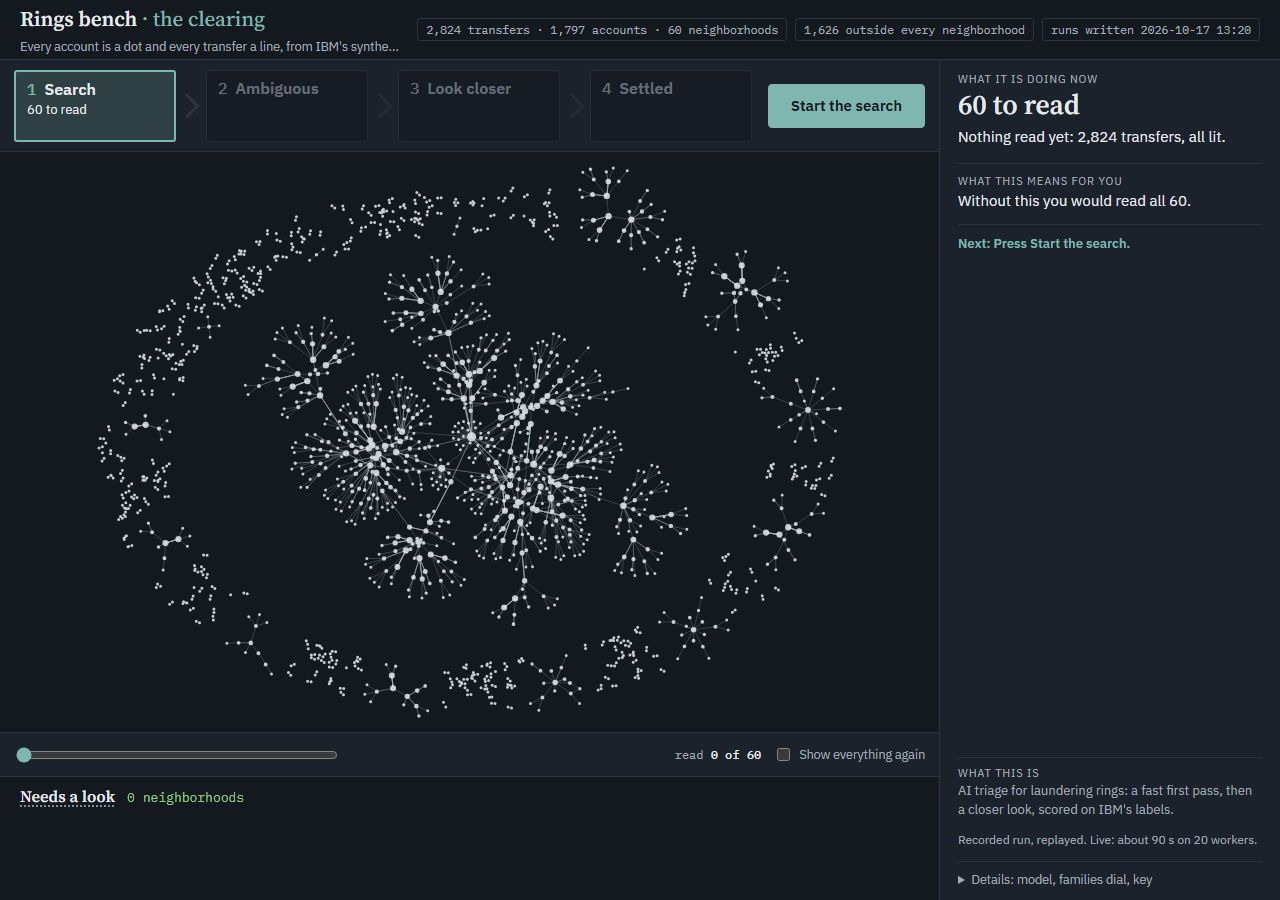
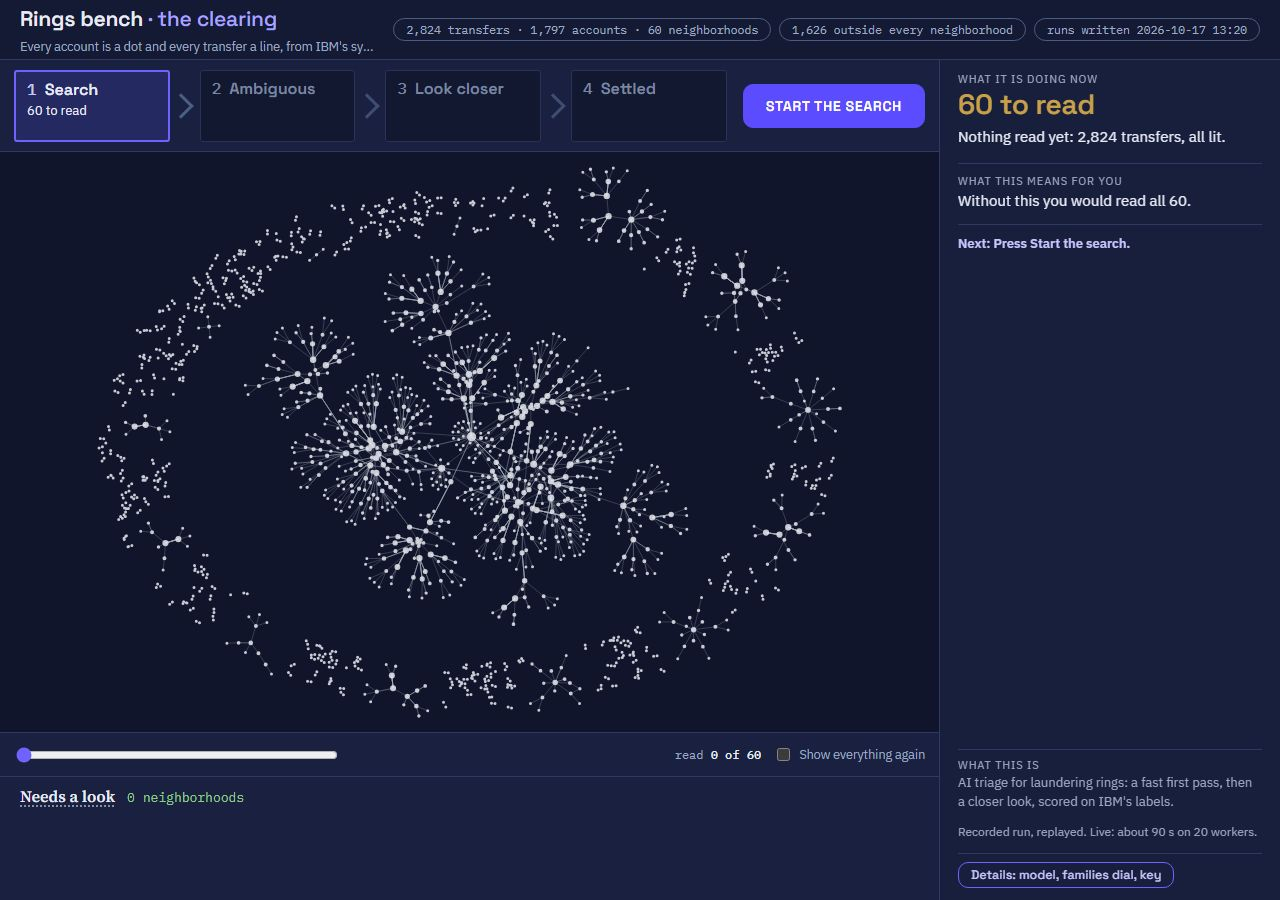
Theme: the landing page's palette (navy, blue-violet, glass, gold thread), Space Grotesk headings, entry fade

Changed region(s): [[0.0, 0.8089, 1.0, 1.0], [0.0, 0.0, 1.0, 0.1867], [0.75, 0.1867, 0.9375, 0.28]]

diff --git a/rings_bench/ui/variants/clearing2d/clearing.css b/rings_bench/ui/variants/clearing2d/clearing.css
@@ -1,6 +1,12 @@
 :root {
-  --ground: #14181F; --surface: #1C222B; --ink: #E6E9EE; --muted: #A3ABB8; --accent: #7FB7B0; --rule: #2C3440; --warn: #E0A458;
-  --ok: #8FCB8A; --bad: #E5736A;
+  /* chrome, sampled from the team landing page; semantic colors below them do not move */
+  --ground: #141a33; --stage: #10152b; --surface: #1a2140; --card: #1f2749; --rule: #2f3a63; --rule-hover: #4b5e83;
+  --ink: #e8ebf5; --muted: #9ea8c0; --faint: #6b7595;
+  --primary: #5b4dff; --primary-hover: #6558f5; --primary-ink: #c9c6ff; --accent: #a9a3ff;
+  --glass: rgba(26, 33, 64, 0.72); --gold: #c9a04a; --done: #7fd7a3; --landing: #1b2a55;
+  --display: "Space Grotesk", "Segoe UI", system-ui, -apple-system, Arial, sans-serif;
+  /* semantic: caught green, false-alarm red, missed amber */
+  --warn: #E0A458; --ok: #8FCB8A; --bad: #E5736A;
   --serif: "Source Serif 4", Georgia, "Times New Roman", serif;
   --sans: "IBM Plex Sans", "Segoe UI", system-ui, -apple-system, Arial, sans-serif;
   --mono: "IBM Plex Mono", Consolas, "Cascadia Mono", "Courier New", monospace;
@@ -207,3 +213,65 @@ select { width: 100%; font: 13px var(--sans); color: var(--ink); background: var
 .r-what p:last-child { font-size: 13px; color: var(--muted); }
 .r-honest { margin: 0; font-size: 12px; color: var(--muted); white-space: nowrap; overflow: hidden; text-overflow: ellipsis; cursor: help; }
 .credit { margin: 0 0 8px; }
+
+/* 15:10 palette pass: chrome follows the landing page; semantic colors (caught, alarm, missed, investigator, unsettled) are unchanged */
+html, body { background: var(--ground); }
+body { animation: from-landing 500ms ease-out both; }
+.top, .rail { animation: fade-in 500ms ease-out both; }
+@keyframes from-landing { from { background-color: var(--landing); } to { background-color: var(--ground); } }
+@keyframes fade-in { from { opacity: 0; } to { opacity: 1; } }
+html.motion-reduced body, html.motion-reduced .top, html.motion-reduced .rail { animation: none; }
+.stage, #cv { background: var(--stage); }
+.top { background: var(--ground); }
+.top h1 { font-family: var(--display); font-weight: 600; letter-spacing: -.01em; }
+.top h1 .thin { color: var(--accent); font-weight: 500; }
+.badge { border: 1px solid var(--rule-hover); color: var(--muted); border-radius: 999px; padding: 3px 12px; }
+.flow, .scrub, .roster { background: var(--surface); }
+.rail { background: var(--surface); }
+@supports ((backdrop-filter: blur(14px)) or (-webkit-backdrop-filter: blur(14px))) {
+  .rail { background: var(--glass); -webkit-backdrop-filter: blur(14px); backdrop-filter: blur(14px); }
+  html body .zm-root { background: var(--glass); -webkit-backdrop-filter: blur(14px); backdrop-filter: blur(14px); }
+}
+/* buttons: one primary (the landing's OPEN THE BENCH look), the rest secondary */
+.btn { background: transparent; border: 1px solid var(--primary-hover); color: var(--primary-ink); border-radius: 10px; font-family: var(--display); }
+.btn:hover { border-color: var(--primary-hover); background: rgba(111, 99, 255, .12); }
+.btn.cta { background: var(--primary); border-color: var(--primary); color: #fff; border-radius: 10px; font: 600 14px var(--display); text-transform: uppercase; letter-spacing: .05em; }
+.btn.cta:hover { background: var(--primary-hover); border-color: var(--primary-hover); filter: none; }
+.btn:focus-visible, select:focus-visible, input:focus-visible, .fbox:focus-visible, summary:focus-visible { outline: 2px solid var(--primary-hover); outline-offset: 2px; }
+.ba .seg { border: 1px solid var(--primary-hover); border-radius: 10px; }
+.ba .seg button { color: var(--primary-ink); font-family: var(--display); }
+.ba .seg button + button { border-left: 1px solid var(--primary-hover); }
+.ba .seg button.on { background: rgba(111, 99, 255, .22); color: #fff; box-shadow: none; }
+.r-details summary { display: inline-block; color: var(--primary-ink); border: 1px solid var(--primary-hover); border-radius: 10px; padding: 3px 12px; font-family: var(--display); }
+input[type=range], input[type=checkbox] { accent-color: var(--primary-hover); }
+select { background: var(--card); border-color: var(--rule); color: var(--ink); }
+/* funnel */
+.fbox { background: var(--stage); border: 1px solid var(--rule); color: var(--muted); opacity: .75; }
+.fbox:not(:last-child)::after { border-color: var(--rule-hover); }
+.fbox .ft { font-family: var(--display); }
+.fbox.on { background: rgba(91, 77, 255, .18); border: 2px solid var(--primary-hover); color: var(--ink); opacity: 1; }
+.fbox.on .ft b { color: var(--primary-ink); }
+.fbox.done { background: rgba(127, 215, 163, .12); border-color: rgba(127, 215, 163, .45); color: var(--ink); opacity: 1; }
+.fbox.done .ft::after { color: var(--done); }
+.fbox.done:not(:last-child)::after { border-color: rgba(127, 215, 163, .6); }
+/* rail */
+.r-now .big { font-family: var(--display); color: var(--gold); letter-spacing: -.01em; }
+.r-next { color: var(--primary-ink); }
+.r-now .speed { color: var(--accent); }
+.r-now, .r-you, .r-what, .r-next, .r-details { border-color: var(--rule); }
+/* tray and cards */
+.card { background: var(--card); border-color: var(--rule); }
+.card:hover, .card:focus-visible { border-color: var(--rule-hover); }
+.card .thumb, .card canvas { background: var(--stage); }
+.hovercard { background: rgba(31, 39, 73, .97); border-color: var(--rule); border-left-color: var(--accent); }
+/* the zoom overlay: chrome follows; the IBM laundering stroke takes the landing's gold thread */
+body .zm-root { background: rgba(16, 21, 43, .9); }
+body .zm-panel { background: var(--stage) !important; border-color: var(--rule) !important; }
+body .zm-head, body .zm-scrub { background: var(--surface) !important; }
+body .zm-card { background: rgba(31, 39, 73, .97) !important; }
+body .zm-tag.ibm { color: var(--gold); border-color: rgba(201, 160, 74, .55); }
+body .zm-ibm { color: var(--gold); }
+body .zm-card.ibm { border-left-color: var(--gold); }
+.zm-root [stroke="#D2C46A"] { stroke: var(--gold); }
+.zm-root [fill="#D2C46A"] { fill: var(--gold); }
+body .zm-close { border-color: var(--primary-hover) !important; color: var(--primary-ink) !important; border-radius: 10px; }

diff --git a/rings_bench/ui/variants/clearing2d/index.html b/rings_bench/ui/variants/clearing2d/index.html
@@ -4,12 +4,13 @@
 <meta charset="utf-8">
 <meta name="viewport" content="width=device-width, initial-scale=1">
 <title>Rings clearing</title>
+<script>if (/[?&]motion=reduced/.test(location.search)) document.documentElement.classList.add('motion-reduced');</script>
 <link rel="preconnect" href="https://fonts.googleapis.com">
 <link rel="preconnect" href="https://fonts.gstatic.com" crossorigin>
-<link rel="preload" as="style" href="https://fonts.googleapis.com/css2?family=IBM+Plex+Mono:wght@400;500&family=IBM+Plex+Sans:wght@400;500;600&family=Source+Serif+4:opsz,wght@8..60,500;8..60,600&display=swap" onload="this.onload=null;this.rel='stylesheet'">
-<noscript><link rel="stylesheet" href="https://fonts.googleapis.com/css2?family=IBM+Plex+Mono:wght@400;500&family=IBM+Plex+Sans:wght@400;500;600&family=Source+Serif+4:opsz,wght@8..60,500;8..60,600&display=swap"></noscript>
-<link rel="stylesheet" href="clearing.css?v=20261017-1505">
-<link rel="stylesheet" href="zoom.css?v=20261017-1505">
+<link rel="preload" as="style" href="https://fonts.googleapis.com/css2?family=IBM+Plex+Mono:wght@400;500&family=Space+Grotesk:wght@500;600&family=IBM+Plex+Sans:wght@400;500;600&family=Source+Serif+4:opsz,wght@8..60,500;8..60,600&display=swap" onload="this.onload=null;this.rel='stylesheet'">
+<noscript><link rel="stylesheet" href="https://fonts.googleapis.com/css2?family=IBM+Plex+Mono:wght@400;500&family=Space+Grotesk:wght@500;600&family=IBM+Plex+Sans:wght@400;500;600&family=Source+Serif+4:opsz,wght@8..60,500;8..60,600&display=swap"></noscript>
+<link rel="stylesheet" href="clearing.css?v=20261017-1525">
+<link rel="stylesheet" href="zoom.css?v=20261017-1525">
 </head>
 <body>
 <header class="top">
@@ -103,14 +104,14 @@
 
 
 
-<script src="../../../data/slice.js?v=20261017-1505"></script>
-<script src="../../../data/units.js?v=20261017-1505"></script>
-<script src="../../../data/panel.js?v=20261017-1505"></script>
-<script src="../../../data/bench_results.js?v=20261017-1505"></script>
-<script src="../../../data/investigate.js?v=20261017-1505"></script>
-<script src="layout.js?v=20261017-1505"></script>
-<script src="layout_core.js?v=20261017-1505"></script>
-<script src="clearing.js?v=20261017-1505"></script>
-<script src="zoom.js?v=20261017-1505"></script>
+<script src="../../../data/slice.js?v=20261017-1525"></script>
+<script src="../../../data/units.js?v=20261017-1525"></script>
+<script src="../../../data/panel.js?v=20261017-1525"></script>
+<script src="../../../data/bench_results.js?v=20261017-1525"></script>
+<script src="../../../data/investigate.js?v=20261017-1525"></script>
+<script src="layout.js?v=20261017-1525"></script>
+<script src="layout_core.js?v=20261017-1525"></script>
+<script src="clearing.js?v=20261017-1525"></script>
+<script src="zoom.js?v=20261017-1525"></script>
 </body>
 </html>

diff --git a/rings_bench/ui/variants/clearing2d/clearing.js b/rings_bench/ui/variants/clearing2d/clearing.js
@@ -6,7 +6,7 @@
    If the data is missing a small made-up SAMPLE stands in and the page says so. Canvas 2D, no libraries. */
 (function () {
 'use strict';
-const C = { look: '#B3A68C', ground: '#14181F', surface: '#1C222B', ink: '#E6E9EE', muted: '#A3ABB8', accent: '#7FB7B0', rule: '#2C3440', warn: '#E0A458', ok: '#8FCB8A', bad: '#E5736A' };
+const C = { look: '#B3A68C', ground: '#10152b', surface: '#1a2140', ink: '#E6E9EE', muted: '#A3ABB8', accent: '#7FB7B0', rule: '#2C3440', warn: '#E0A458', ok: '#8FCB8A', bad: '#E5736A' };
 // A demo page: the system's reduced-motion setting is honored only when the URL asks for it (?motion=reduced),
 // so a laptop with animations switched off still plays the search instead of opening on the finished state.
 const RMQ = { matches: /[?&]motion=reduced/.test(location.search) };

diff --git a/rings_bench/ui/variants/clearing2d/README.md b/rings_bench/ui/variants/clearing2d/README.md
@@ -6,7 +6,11 @@ To open it, double-click `index.html`. It reads `../../../data/` (slice, units, 
 
 The whole slice starts lit, the real graph, and the first pass reads the 60 neighborhoods one by one: each one it rules ordinary fades, and each ring it catches traces green in place. The neighborhoods it could not settle stay lit and drop into a "Needs a look" tray, and a stronger model looks closer at them one card at a time, so each one either fades as cleared or closes green as a ring. What remains is what is worth a look: the rings caught, the two alarms, and, on request, the rings both passes missed in amber dotted.
 
-## 15:00 redline (current)
+## 15:10 palette pass (current, build 20261017-1525)
+
+The chrome follows the team landing page, and its tokens sit at the top of `clearing.css`: page #141a33, graph #10152b, surfaces #1a2140, cards #1f2749, borders #2f3a63 / #4b5e83, text #e8ebf5 / #9ea8c0, primary #5b4dff, gold thread #c9a04a. Space Grotesk is used for the title, funnel titles, the rail's number line and buttons. The rail and zoom overlay are frosted glass, falling back to the solid surface. On load the page eases from the landing's navy #1b2a55 over 500 ms. Semantic colors (caught green, alarm red, missed amber, investigator teal, unsettled amber) are unchanged. Contrast: text 12.2 to 15.1:1, muted 5.8 to 7.6:1, gold 5.7 to 7.4:1 on every surface; white on the primary button is 5.3:1, but only 4.3:1 on its hover color.
+
+## 15:00 redline
 
 Every local script and stylesheet tag carries `?v=<build>` (now `20261017-1505`); bump it on every hand-back. The small explanatory text is gone from the screen (captions, version note, dial note, footer, tray note, empty-tray sentence). The data credit is one line inside Details, and the longer caveats live in the honest line's hover title. The rail runs the full window height; the tray sits under the graph only. The rail reads top to bottom: What it is doing now (a 28 px number-led line, one sentence, and the playback speed during a pass), What this means for you, Next, then What this is and the one-line honest note at the foot, then Details. The funnel boxes are 72 px or taller with 16 px titles, a check mark on finished steps, and larger arrows; the button sits at the right end of the funnel row. The status line shows only "read N of 60" (or "checked N of 30") and the playback speed.
 
